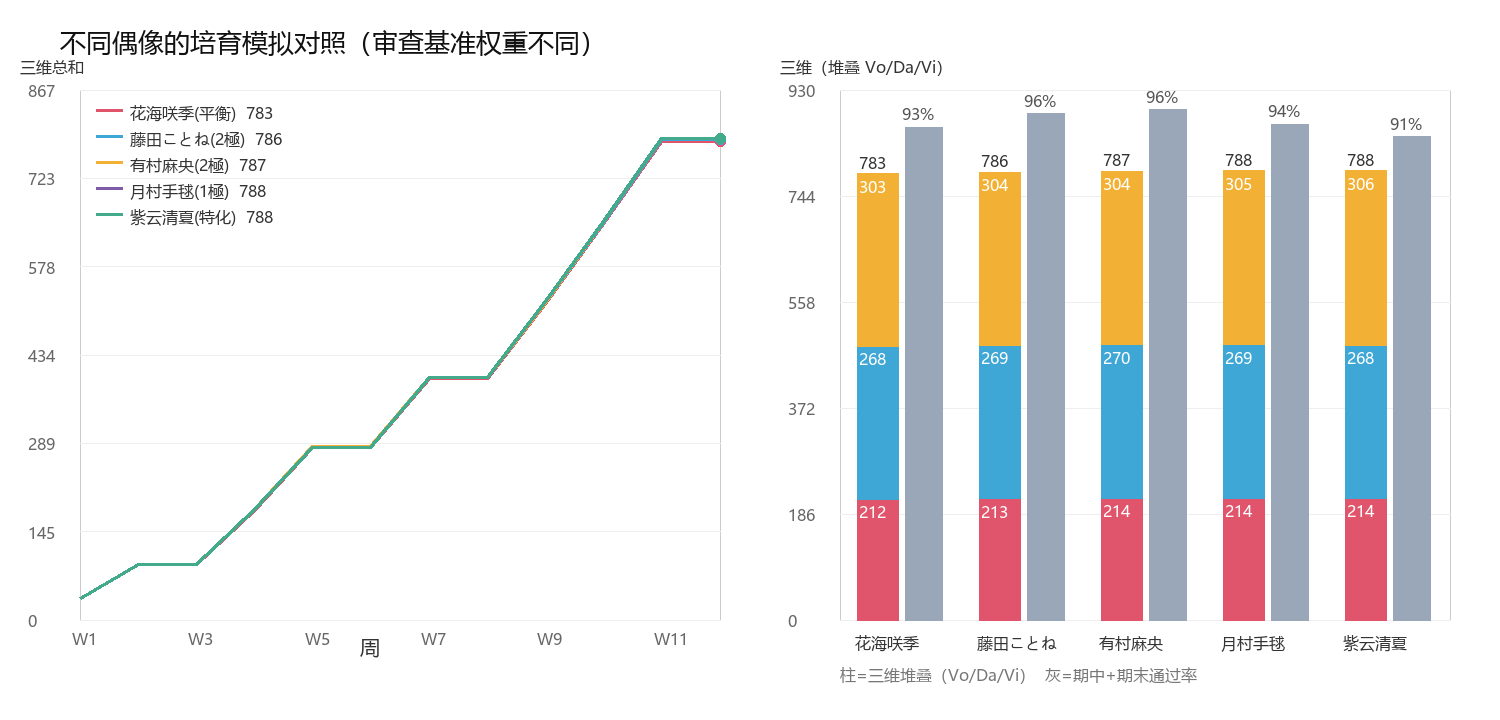
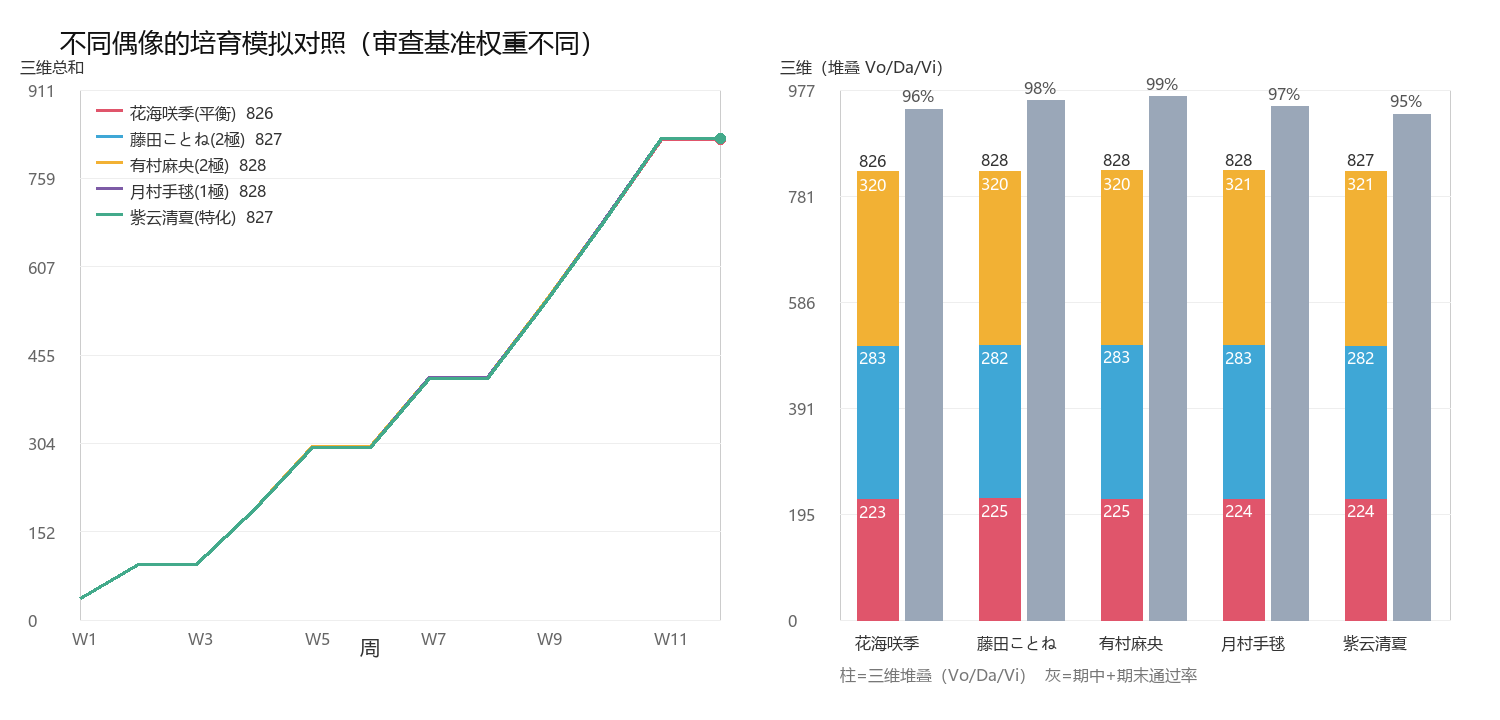
feat(sim): 改用官方评价公式(顺位点+2.3x三维+终试分段换算)，评价映射与真机/网上数据一致

diff --git a/src/gkagent/sim/produce.py b/src/gkagent/sim/produce.py
@@ -64,12 +64,43 @@ class ProduceResult:
         return sum(self.attrs)
 
 
-def grade_for(total: int) -> str:
-    """三维总和 → 评价（按真机观测标定：总和 ~630 = E）。"""
-    for limit, grade in ((700, "E"), (900, "D"), (1100, "C"), (1300, "C+"), (1600, "B"), (1900, "B+"), (2200, "A")):
-        if total < limit:
+# 官方评价公式（wiki/NGA 解包，剧本「初」レギュラー/プロ/マスター）
+RANK_POINTS = {1: 1700, 2: 900, 3: 500}
+SCORE_BRACKETS = ((5000, 0.30), (10000, 0.15), (20000, 0.08), (30000, 0.04), (40000, 0.02), (10**9, 0.01))
+EVAL_RANKS = (
+    (35000, "S5"), (30000, "S4+"), (26000, "S4"), (23000, "SSS+"), (20000, "SSS"),
+    (18000, "SS+"), (16000, "SS"), (14500, "S+"), (13000, "S"), (11500, "A+"),
+    (10000, "A"), (8000, "B+"), (6000, "B"), (4500, "C+"), (3000, "C"),
+)
+
+
+def exam_score_points(score: int) -> int:
+    """终试得分 → 评价点（分段倍率）。"""
+    points = 0.0
+    lower = 0
+    for upper, rate in SCORE_BRACKETS:
+        if score <= lower:
+            break
+        points += (min(score, upper) - lower) * rate
+        lower = upper
+    return int(points)
+
+
+def grade_for(total: int, rank: int = 3, exam_score: int | None = None) -> str:
+    """官方评价：顺位点 + 2.3×三维总和 + 终试得分换算 → 评价字母。"""
+    if exam_score is None:
+        exam_score = total * 2  # 没有终试分数时的保守近似
+    value = RANK_POINTS.get(rank, 0) + int(2.3 * total) + exam_score_points(exam_score)
+    for limit, grade in EVAL_RANKS:
+        if value >= limit:
             return grade
-    return "S"
+    return "E"
+
+
+def eval_value(total: int, rank: int = 3, exam_score: int | None = None) -> int:
+    if exam_score is None:
+        exam_score = total * 2
+    return RANK_POINTS.get(rank, 0) + int(2.3 * total) + exam_score_points(exam_score)
 
 
 def lesson_policy(sim) -> int | None:
@@ -323,13 +354,20 @@ class ProduceSim:
     def run(self, strategy) -> ProduceResult:
         while not self.done:
             self.step(strategy)
+        last_rank = 3
+        for row in reversed(self.trace):
+            if row.get("exam"):
+                last_rank = row["exam"]["rank"]
+                break
+        total = sum(self.attrs)
+        exam_score = total * 2  # 近似：终试得分 ≈ 2×三维总和
         return ProduceResult(
             attrs=tuple(self.attrs),
             fans=self.fans,
             lessons=self.lessons,
             cleared=self.cleared,
             exams_passed=self.exams_passed,
-            grade=grade_for(sum(self.attrs)),
+            grade=grade_for(total, last_rank, exam_score),
         )
 
 
